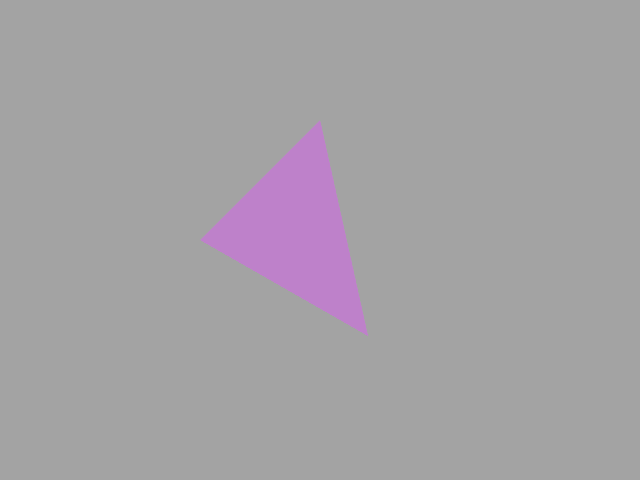
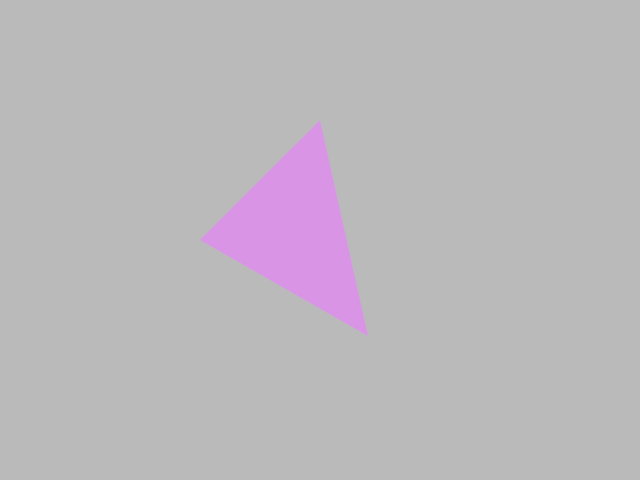
2_1 copy from part 2 and redo images

Changed region(s): [[0.3125, 0.25, 0.5938, 0.6875]]

diff --git a/src/hw2.cpp b/src/hw2.cpp
@@ -9,29 +9,28 @@ Image3 hw_2_1(const std::vector<std::string> &params) {
     Image3 img(640 /* width */, 480 /* height */);
     Image3 img_4x(4*img.width, 4*img.height);
 
-    Vector3 p0_3D{0, 0, -1};
-    Vector3 p1_3D{1, 0, -1};
-    Vector3 p2_3D{0, 1, -1};
+    Vector3 p0{0, 0, -1};
+    Vector3 p1{1, 0, -1};
+    Vector3 p2{0, 1, -1};
     Real s = 1; // scaling factor of the view frustrum
     Real a = Real(img.width)/Real(img.height); // aspect ratio
     Vector3 color = Vector3{1.0, 0.5, 0.5};
-    Vector3 background = Vector3{0.5, 0.5, 0.5};
     Real z_near = 1e-6; // distance of the near clipping plane
     for (int i = 0; i < (int)params.size(); i++) {
         if (params[i] == "-s") {
             s = std::stof(params[++i]);
         } else if (params[i] == "-p0") {
-            p0_3D.x = std::stof(params[++i]);
-            p0_3D.y = std::stof(params[++i]);
-            p0_3D.z = std::stof(params[++i]);
+            p0.x = std::stof(params[++i]);
+            p0.y = std::stof(params[++i]);
+            p0.z = std::stof(params[++i]);
         } else if (params[i] == "-p1") {
-            p1_3D.x = std::stof(params[++i]);
-            p1_3D.y = std::stof(params[++i]);
-            p1_3D.z = std::stof(params[++i]);
+            p1.x = std::stof(params[++i]);
+            p1.y = std::stof(params[++i]);
+            p1.z = std::stof(params[++i]);
         } else if (params[i] == "-p2") {
-            p2_3D.x = std::stof(params[++i]);
-            p2_3D.y = std::stof(params[++i]);
-            p2_3D.z = std::stof(params[++i]);
+            p2.x = std::stof(params[++i]);
+            p2.y = std::stof(params[++i]);
+            p2.z = std::stof(params[++i]);
         } else if (params[i] == "-color") {
             Real r = std::stof(params[++i]);
             Real g = std::stof(params[++i]);
@@ -41,55 +40,51 @@ Image3 hw_2_1(const std::vector<std::string> &params) {
             z_near = std::stof(params[++i]);
         }
     }
-    // project vertices to image plane (camera space)
-    auto pToCam = [](const Vector3 &v) { 
-        return Vector2{-v.x/v.z, -v.y/v.z}; 
-    };
-    Vector2 p0_2D = pToCam(p0_3D), 
-            p1_2D = pToCam(p1_3D), 
-            p2_2D = pToCam(p2_3D);
-    // convert from camera space to 4x image space
-    auto camToImg = [&](const Vector2 &v) { 
-        return Vector2{img_4x.width*(v.x+s*a)/(2*s*a), 
-                      -img_4x.height*(v.y-s)/(2*s)}; 
-    };
-    Vector2 p0 = camToImg(p0_2D), 
-            p1 = camToImg(p1_2D), 
-            p2 = camToImg(p2_2D);
-    // rasterize 4x image
+    // set 4x image background
     for (int y = 0; y < img_4x.height; y++) {
         for (int x = 0; x < img_4x.width; x++) {
-            img_4x(x, y) = background;
+            img_4x(x, y) = Vector3{0.5, 0.5, 0.5};
         }
     }
-    // within view frustum & near clipping plane
-    auto outOfView = [&](const Vector2 &v) { 
-        return v.x < -s*a && v.x > s*a && v.y < -s && v.y > s; 
-    };
-    bool b0 = outOfView(p0_2D), b1 = outOfView(p1_2D), b2 = outOfView(p2_2D);
-    bool bNear = -p0_3D.z<z_near && -p1_3D.z<z_near && -p2_3D.z<z_near;
-    if (!(b0 || b1 || b2 || bNear)) {
-        // bounding box
-        Real minX = std::min({p0.x, p1.x, p2.x});
-        Real maxX = std::max({p0.x, p1.x, p2.x});
-        Real minY = std::min({p0.y, p1.y, p2.y});
-        Real maxY = std::max({p0.y, p1.y, p2.y});
-        Vector2 pMin = Vector2{std::max(minX, Real(0)), std::max(minY, Real(0))};
-        Vector2 pMax = Vector2{std::min(maxX, Real(img_4x.width)), 
-                               std::min(maxY, Real(img_4x.height))};       
-        // edges and normals
-        Vector2 e01 = p1 - p0, e12 = p2 - p1, e20 = p0 - p2;
+    // if inside near clipping plane
+    if (!(-p0.z<z_near && -p1.z<z_near && -p2.z<z_near)) {
+        // project vertices to image plane (camera space)
+        auto pToCam = [](const Vector3 &v) { 
+            return Vector2{-v.x/v.z, -v.y/v.z}; 
+        };
+        Vector2 p0_cam = pToCam(p0), 
+                p1_cam = pToCam(p1), 
+                p2_cam = pToCam(p2);
+        // convert from camera space to 4x image space
+        auto camToImg = [&](const Vector2 &v) { 
+            return Vector2{img_4x.width*(v.x+s*a)/(2*s*a), 
+                        -img_4x.height*(v.y-s)/(2*s)}; 
+        };
+        Vector2 p0_img = camToImg(p0_cam), 
+                p1_img = camToImg(p1_cam), 
+                p2_img = camToImg(p2_cam);
+        // define bounding box
+        Real minX = max(std::min({p0_img.x, p1_img.x, p2_img.x}), Real(0));
+        Real minY = max(std::min({p0_img.y, p1_img.y, p2_img.y}), Real(0));
+        Real maxX = min(std::max({p0_img.x, p1_img.x, p2_img.x}), Real(img_4x.width));
+        Real maxY = min(std::max({p0_img.y, p1_img.y, p2_img.y}), Real(img_4x.height));
+        // define edges and normals
+        Vector2 e01 = p1_img - p0_img, 
+                e12 = p2_img - p1_img, 
+                e20 = p0_img - p2_img;
         auto normal = [](const Vector2 &v) { 
             return Vector2{v.y, -v.x}; 
         };
-        Vector2 n01 = normal(e01), n12 = normal(e12), n20 = normal(e20);
-        // rasterize
-        for (int y = pMin.y; y < pMax.y; y++) {
-            for (int x = pMin.x; x < pMax.x; x++) {
+        Vector2 n01 = normal(e01), 
+                n12 = normal(e12), 
+                n20 = normal(e20);
+        // check if points hit triangle
+        for (int y = minY; y < maxY; y++) {
+            for (int x = minX; x < maxX; x++) {
                 Vector2 pixel_center{x + Real(0.5), y + Real(0.5)};
-                bool s01 = dot(pixel_center - p0, n01) > 0;
-                bool s12 = dot(pixel_center - p1, n12) > 0;
-                bool s20 = dot(pixel_center - p2, n20) > 0;
+                bool s01 = dot(pixel_center - p0_img, n01) > 0;
+                bool s12 = dot(pixel_center - p1_img, n12) > 0;
+                bool s20 = dot(pixel_center - p2_img, n20) > 0;
                 if ((s01 && s12 && s20) || (!s01 && !s12 && !s20)) {
                     img_4x(x, y) = color;
                 }
